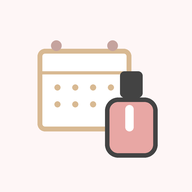
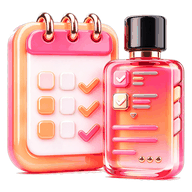
Add files via upload

diff --git a/sw.js b/sw.js
@@ -1,4 +1,4 @@
-const V = 'mi-agenda-v1.1';
+const V = 'mi-agenda-v1.3';
 const A = ['./', 'index.html', 'manifest.json', 'icon-192.png', 'icon-512.png'];
 self.addEventListener('install', e => {
   e.waitUntil(caches.open(V).then(c => c.addAll(A)).then(() => self.skipWaiting()));

diff --git a/README.md b/README.md
@@ -27,4 +27,4 @@ Para usar tu propia imagen, reemplaza `icon-192.png` (192×192) e `icon-512.png`
 ## Datos y privacidad
 Todo se guarda solo en el navegador del dispositivo (localStorage). La contraseña es un bloqueo de privacidad local, no cifra los datos.
 
-Versión 1.1
+Versión 1.3 — ícono de marca en estilo 3D glossy (calendario + frasco de esmalte)
